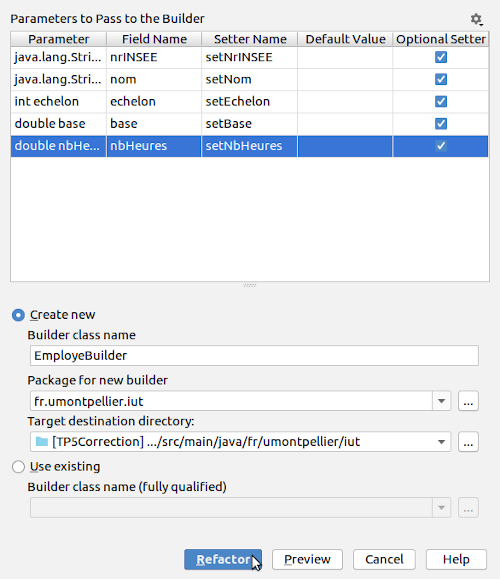
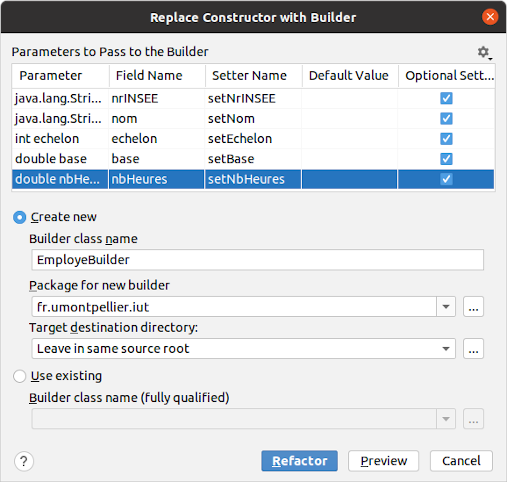
update 2022

diff --git a/README.md b/README.md
@@ -4,11 +4,17 @@
 
 ### IUT Montpellier-Sète – Département Informatique
 
-* **Cours:** [M2103](http://cache.media.enseignementsup-recherche.gouv.fr/file/25/09/7/PPN_INFORMATIQUE_256097.pdf) - support [ici](https://gitlabinfo.iutmontp.univ-montp2.fr/dev-objets/Ressources)
-* **Enseignants:** [Marin Bougeret](mailto:marin.bougeret@umontpellier.fr), [Romain Lebreton](mailto:romain.lebreton@umontpellier.fr), [Sophie Nabitz](mailto:sophie.nabitz@univ-avignon.fr), [Victor Poupet](mailto:victor.poupet@umontpellier.fr), [Petru Valicov](mailto:petru.valicov@umontpellier.fr)
+* [**Support de cours**](https://gitlabinfo.iutmontp.univ-montp2.fr/dev-objets/Ressources)
+* **Enseignants:**
+  [Marin Bougeret](mailto:marin.bougeret@umontpellier.fr),
+  [Gaëlle Hisler](mailto:gaelle.hisler@umontpellier.fr),<!--[Sophie Nabitz](mailto:sophie.nabitz@univ-avignon.fr),-->
+  [Cyrille Nadal](mailto:cyrille.nadal@umontpellier.fr),
+  [Victor Poupet](mailto:victor.poupet@umontpellier.fr),
+  [Gilles Trombettoni](mailto:gilles.trombettoni@umontpellier.fr),
+  [Petru Valicov](mailto:petru.valicov@umontpellier.fr)
 * Le [forum Piazza](https://piazza.com/class/kyo4oooauez252) de ce cours pour poser vos questions
 * [Email](mailto:petru.valicov@umontpellier.fr) pour une question d'ordre privée concernant le cours.
-* Le [sujet du TP](https://pageperso.lis-lab.fr/~petru.valicov/Cours/M2103/TP5.pdf) en format .pdf téléchargeable et imprimable.
+* Le [sujet du TP](https://www.lirmm.fr/~pvalicov/Cours/dev-objets/TP5.pdf) en format .pdf téléchargeable et imprimable.
 
 <!--Avant de démarrer le TP, vérifiez que vous n'avez pas atteint votre quota d'espace de stockage autorisé :
 
@@ -20,26 +26,25 @@
 * Pour éviter des problèmes durant vos TPs d'informatique, vous devriez toujours **garder 300-400 Mo d'espace libre**.
 -->
 
+
 ### Consignes (importantes pour la notation)
 - Vous respecterez toutes les [consignes](https://gitlabinfo.iutmontp.univ-montp2.fr/dev-objets/TP4#consignes) indiquées dans le TP précédent
-- Vous respecterez les conventions de nommage *Java* (vues en [cours](http://pageperso.lis-lab.fr/~petru.valicov/Cours/M2103/BPOO_Generalites_x4.pdf)
-ou disponibles sur le site d'Oracle). Prêtez une attention particulière au respect des noms de classes, attributs et méthodes qui vous seront demandés.
+- Vous respecterez les conventions de nommage *Java* (vues en [cours](https://www.lirmm.fr/~pvalicov/Cours/dev-objets/Generalites_x4.pdf)
+  ou disponibles sur le site d'Oracle). Prêtez une attention particulière au respect des noms de classes, attributs et méthodes qui vous seront demandés.
 - Dans ce TP, un principe important que vous devriez essayer de respecter dans votre code est le principe [DRY](https://fr.wikipedia.org/wiki/Ne_vous_r%C3%A9p%C3%A9tez_pas).
 - Pour chaque question nécessitant une vérification automatique, vous écrirez des tests unitaires, pour valider votre solution.
 - **Vous nommerez les classes telles que demandé dans le sujet et respecterez les signatures des méthodes qui vous sont demandées. Sinon, votre code ne pourra pas être testé...**
 
 
+
 ## TP5
 #### _Thème : Héritage - réutiliser, mais sans en abuser_
 
-Cliquez sur le lien ci-dessous pour faire votre fork privé du TP :
-
-https://classroom.github.com/a/Aa2TX0UU
-
-Date limite de rendu de votre code sur le dépôt GitHub : **Dimanche 21 février à 23h00**
+Date limite de rendu de votre code sur le dépôt GitHub : **Dimanche 27 février à 23h00**
 
 Vous êtes chargés de proposer une application de gestion des employés dans une entreprise.
-L’objectif est de développer votre application de manière incrémentale, en ajoutant les fonctionnalités demandées au fur et à mesure __sans modifier les fonctionnalités écrites précédemment__ (à moins qu'il vous est demandé explicitement de modifier le code). Ce que l'on considère ici comme _modification_
+L’objectif est de développer votre application de manière incrémentale, en ajoutant les fonctionnalités demandées au fur
+et à mesure __sans modifier les fonctionnalités écrites précédemment__. Ce que l'on considère ici comme _modification_
 c'est effacer et/ou réécrire du code précédemment écrit. _Ajouter_ du code sans modifier le code précédent est donc
 une opération valide. On dira ici, que pour chaque modification de votre programme (effacement et réécriture) la
 [dette](https://fr.wikipedia.org/wiki/Dette_technique) de votre logiciel augmente.
@@ -50,99 +55,78 @@ Dans tout ce TP, tous les attributs devraient être `private` (en particulier il
 
 ### Exercice 1
 
-1. Dans un premier temps vous devez modéliser les employés représentés par les données suivantes : numéro de
-   sécurité sociale, nom, échelon (entier naturel). Pour pouvoir calculer le salaire brut et le salaire net d'un employé,
-   deux attributs supplémentaires de type `double` sont nécessaires : `base` et `nbHeures`. Implémentez la classe `Employe`
-   qui vous est donnée et complétez son constructeur (**avec les paramètres dans cet ordre**) :
-    ```java
-       public Employe(String nrINSEE, String nom, int echelon, double base, double nbHeures)
+1. Dans un premier temps, vous devez modéliser les employés représentés par les données suivantes : numéro de sécurité sociale, nom, échelon (entier naturel). Pour pouvoir calculer le salaire brut et le salaire net d'un employé, deux attributs supplémentaires de type `double` sont nécessaires : `base` et `nbHeures`. Implémentez la classe `Employe` qui vous est donnée et complétez son constructeur (**avec les paramètres dans cet ordre**) :
+   ```java
+   public Employe(String nrINSEE, String nom, int echelon, double base, double nbHeures)
     ```
 2. Le constructeur ayant beaucoup de paramètres, il vous est également
-    demandé de proposer un _builder_ pour une construction plus souple (cf.
-    [question 5, Exercice 3 du TP3](https://gitlabinfo.iutmontp.univ-montp2.fr/dev-objets/tp3#exercice-3-bonus)).
-    Vous pouvez générer le builder de manière automatique avec l'outil de refactoring d'IntelliJ IDEA :
-   * clic droit sur le nom du constructeur de votre classe &rightarrow; _Refactor_ &rightarrow;
-   _Replace Constructor with Builder_ :
-     
-    ![](ressources/GenerationBuilder.png)
-   * Dans la fenêtre qui s'affiche vous cocherez tous les paramètres comme indiqué dans le dessin ci-dessous et cliquerez
-    sur le bouton _Refactor_ :   
-   ![](ressources/ParametresBuilder.png)
-     
-   C'est possible de générer le builder dans d'autres IDE, mais c'est moins automatique.
-   
-   **Important :** générer le builder, ne veut pas dire changer le constructeur de la classe `Employe`... **il ne faut pas** changer la signature du constructeur de `Employe` qui vous est donnée
+   demandé de proposer un _builder_ pour une construction plus souple (cf.
+   [question 5, Exercice 3 du TP3](https://gitlabinfo.iutmontp.univ-montp2.fr/dev-objets/tp3#exercice-3-bonus)).
+   Vous pouvez générer le _builder_ de manière automatique avec l'outil de refactoring d'IntelliJ IDEA :
+    * clic droit sur le nom du constructeur de votre classe &rightarrow; _Show Context Actions_ &rightarrow;
+      _Replace Constructor with Builder_ :
+      <img src="ressources/GenerationBuilder.png" width="600" alt="generation-builder"/>
+    * Dans la fenêtre qui s'affiche vous cocherez tous les paramètres comme indiqué dans le dessin ci-dessous et cliquerez
+      sur le bouton _Refactor_ :   
+      <img src="ressources/ParametresBuilder.png" width="500" alt="generation-builder"/>
+    * On peut continuer à refactoriser et rendre le Builder comme une classe interne statique de la classe `Employe` en faisant un glisser/déposer (drag & drop) de `EmployerBuilder` dans `Employe` dans la fenêtre de l'IDE.
 
+      C'est sûrement possible de générer le builder dans d'autres IDE, on vous laisse vous documenter.
 
-3. Le salaire brut de l’employé se calcule de la manière suivante : `base * nbHeures`.
- Le salaire net représentera toujours 80% du salaire brut. Ajoutez le code nécessaire (attributs et méthodes) pour intégrer ces fonctionnalités et proposez des méthodes respectives `getSalaireBrut()` et `getSalaireNet()`.
- 
-4. Redéfinissez la méthode `String toString()` dans la classe `Employe` pour afficher les informations concernant un employé
-(y compris ses salaires brut et net).
- 
-5. Si votre client vous demande de changer (modifier donc) la formule de calcul du salaire brut et de la fixer à `base * nbHeures * 1.05`,
-combien de changement devriez-vous effectuer pour que votre programme continue de fonctionner correctement ? Est-ce que vous pouvez faire mieux ?
-   
-    __Remarque__ : comme convenu précédemment, dans ce qui suit, le salaire brut d'un employé restera toujours le même, à savoir `base * nbHeures`
-   
-6. Vérifiez votre solution dans le programme principal (la classe `GestionEmployes`). Vous y instancierez plusieurs employés (avec le _builder_) et afficherez les informations les concernant. N'oubliez pas les tests unitaires pour les questions précédentes !
+   **Important :** générer le builder, ne veut pas dire changer le constructeur de la classe `Employe`... **il ne faut pas** changer la signature du constructeur de `Employe` qui vous est donnée.
+
+3. Le salaire brut de l’employé se calcule de la manière suivante : `base * nbHeures`. Le salaire net représentera toujours 80% du salaire brut. Ajoutez le code nécessaire (attributs et méthodes) pour intégrer ces fonctionnalités
+   et proposez des méthodes respectives `getSalaireBrut()` et `getSalaireNet()`.
+
+4. Redéfinissez la méthode `String toString()` dans la classe `Employe` pour afficher les informations concernant un employé (y compris ses salaires brut et net).
+
+5. Si jamais votre client vous demande de changer (modifier donc) la formule de calcul du salaire brut et de la fixer à `base * nbHeures * 1.05`, combien de changements devriez-vous effectuer au minimum pour que votre programme continue de fonctionner correctement ?
+
+   __Remarque__ : comme convenu précédemment, dans ce qui suit, le salaire brut d'un employé restera toujours le même, à savoir `base * nbHeures`, donc aucun changement dans votre code pour la question 5.
+
+6. Vérifiez votre solution dans le programme principal (la classe `GestionEmployes`). Vous y instancierez plusieurs
+   employés (avec le _builder_) et afficherez les informations les concernant. N'oubliez pas les tests unitaires pour les exercices précédents !
 
 
 ### Exercice 2
 
-1. Avec le développement de l'entreprise, une séparation des traitements pour les différents types
-d'employés devient nécessaire. Il faut spécifier les cas des _Commerciaux_, _Fabricants_, et les autres employés qu’on appellera _Techniciens_.
-   * La classe `Commercial` a comme attributs `chiffreAffaires` et `tauxCommission`  (tous les deux de type `double`).
-   * La classe `Fabricant` a comme attributs `nbUnitesProduites` et `tauxCommissionUnite` (type `int`et `double` respectivement).
-   * La classe `Technicien` n'a pour l'instant aucun nouveau attribut, ni aucune nouvelle méthode.
-   
-   Implémentez les classes correspondantes en les faisant hériter de la classe `Employe`. Voici la signature des constructeurs de ces classes :
-    ```java
-       public Commercial(String nrINSEE, String nom, int echelon, double base, double nbHeures, double chiffreAffaires, double tauxCommission)
-       public Fabricant(String nrINSEE, String nom, int echelon, double base, double nbHeures, int nbUnitesProduites, double tauxCommissionUnite)
-       public Technicien(String nrINSEE, String nom, int echelon, double base, double nbHeures)
-    ```
-        
-    Ne générez pas des _builders_ pour ces classes pour le moment.
+1. Avec le développement de l'entreprise, une séparation des traitements pour les différents types d'employés devient nécessaire. Il faut spécifier les cas des _Commerciaux_, _Fabricants_, et les autres employés qu’on appellera
+   _Techniciens_.
+    * La classe `Commercial` a comme attributs `chiffreAffaires` et `tauxCommission`  (tous les deux de type `double`).
+    * La classe `Fabricant` a comme attributs `nbUnitesProduites` et `tauxCommissionUnite` (type `int`et `double` respectivement).
+    * La classe `Technicien` n'a pour l'instant aucun nouveau attribut, ni aucune nouvelle méthode.
 
-2. Un commercial peut négocier des transactions (avec la méthode `void negocierTransaction()`), un fabricant fabrique des
-produits (méthode `void fabriquerProduit()`), un technicien effectue les autres tâches dans l’entreprise
-(méthode `void effectuerTacheTechnique()`). Toutes ces méthodes sont de type `void` et se contentent
-d'afficher un message approprié pour illustrer leur bon fonctionnement. Par exemple, la méthode `void negocierTransaction()`
-devra afficher ”_Je négocie une transaction_”.
+   Implémentez les classes correspondantes en les faisant hériter de la classe `Employe`.
 
-3. Vérifiez votre programme dans la classe principale, en instanciant un objet pour chaque nouveau type d'employé et en
-appelant sa fonction spécifique.
+   Voici la signature des constructeurs de ces classes :
+   ```java
+   public Commercial(String nrINSEE, String nom, int echelon, double base, double nbHeures, double chiffreAffaires, double tauxCommission)
+   public Fabricant(String nrINSEE, String nom, int echelon, double base, double nbHeures, int nbUnitesProduites, double tauxCommissionUnite)
+   public Technicien(String nrINSEE, String nom, int echelon, double base, double nbHeures)
+   ```
+
+   Ne générez pas des _builders_ pour ces classes pour le moment.
+
+2. Un commercial peut négocier des transactions avec la méthode `negocierTransaction(double sommeGagnée)`, elle incrémentera son chiffre d'affaires. Un fabricant fabrique des produits avec la méthode `void fabriquerProduits(int nbProduits)` ce qui incrémente son nombre d'unités produites. Un technicien effectue les autres tâches dans l’entreprise
+   (méthode `void effectuerTacheTechnique()`) à travers un simple affichage d'un message approprié à la console. Toutes ces méthodes sont de type `void` et vous pouvez faire en sorte d'afficher un message approprié pour illustrer leur bon fonctionnement. Par exemple, la méthode `void negocierTransaction(double sommeGagnée)` pourra en plus afficher ”_Je négocie une transaction_”.
+
+3. Vérifiez votre programme dans la classe principale, en instanciant un objet pour chaque nouveau type d'employé et en appelant sa fonction spécifique.
 
 4. On souhaite varier le calcul des salaires bruts des différents types d’employés :
-    * Le salaire brut d’un technicien est composé de son salaire brut en tant qu’employé + une majoration
-    en fonction de son échelon. Dans notre exemple, le résultat de ce calcul devrait correspondre à 
-    `base ∗ nbHeures + echelon ∗ 100`.
-    * Le salaire brut d’un commercial dépend du chiffre d’affaires qu’il réalise. Ainsi, le salaire brut se calcule
-    suivant la formule `base + chiffreAffaires ∗ tauxCommission`.
-    * Le salaire brut d’un fabricant est calculé de la même manière que le salaire brut d’un employé en ajoutant une
-    rémunération supplémentaire en fonction du rendement. Dans notre exemple, le résultat de ce calcul devrait
-    correspondre à `base ∗ nbHeures + nbUnitesProduites ∗ tauxCommissionUnite`.
-    * **Important :** la modalité de calcul du salaire net demeure inchangée pour tous les employés (à savoir 80% du
-    salaire brut).
-    
-   _Redéfinissez_ la méthode `getSalaireBrut()` dans chaque classe d'employé spécifique pour prendre en compte
-   ces nouvelles formules. Vous ajouterez le code qui vous paraît nécessaire à la classe `Employe` mais sans modifier
-   le code précédemment écrit.
+    * Le salaire brut d’un technicien est composé de son salaire brut en tant qu’employé + une majoration en fonction de son échelon et du nombre de tâches effectuées. Plus concrètement, le résultat du retour de la fonction de calcul du salaire brut devra être égal à `base ∗ nbHeures + echelon ∗ 100`.
+    * Le salaire brut d’un commercial dépend du chiffre d’affaires qu’il réalise. Ainsi, le salaire brut se calcule suivant la formule `base + chiffreAffaires ∗ tauxCommission`.
+    * Le salaire brut d’un fabricant est calculé de la même manière que le salaire brut d’un employé en ajoutant une rémunération supplémentaire en fonction du rendement. Dans notre exemple, le résultat de ce calcul devrait correspondre à `base ∗ nbHeures + nbUnitesProduites ∗ tauxCommissionUnite`.
+    * **Important :** la modalité de calcul du salaire net demeure inchangée pour tous les employés (à savoir 80% du salaire brut).
 
-5. Déclarez un objet de type `Employe` et instanciez-le en tant que `Fabricant`. Observez le résultat de l'appel des méthodes
-`getSalaireBrut()` et `getSalaireNet()`. Est-ce que la méthode `fabriquerProduit()` est accessible ?
-Expliquez en comparant avec le scénario où l'objet serait déclaré en tant que `Fabricant`. 
+   _Redéfinissez_ la méthode `getSalaireBrut()` dans chaque classe d'employé spécifique pour prendre en compte ces nouvelles formules. Vous ajouterez le code qui vous paraît nécessaire à la classe `Employe` mais sans modifier le code précédemment écrit.
 
-6. Si le patron devient plus généreux et décide d’ajouter 100€ au salaire brut de tous ses employés, combien de
-modifications devez-vous apporter à votre code pour que cela fonctionne ?
+5. Déclarez un objet de type `Employe` et instanciez-le en tant que `Fabricant`. Observez le résultat de l'appel des méthodes `getSalaireBrut()` et `getSalaireNet()`. Est-ce que la méthode `fabriquerProduits(int nbProduits)` est accessible ? Expliquez en comparant avec le scénario où l'objet serait déclaré en tant que `Fabricant`.
+
+6. Si jamais le patron devient plus généreux et décide d’ajouter une somme fixe de 100€ au salaire brut de tous ses employés, combien de modifications devez-vous apporter à votre code pour que cela fonctionne ? Attention, c'était une blague, le patron ne sera pas généreux, donc ne faites pas cette modification !
 
 ### Exercice 3
 
-1. Maintenant, votre client se rend compte qu’un `Commercial` ne peut pas être un simple commercial (donc ne peut pas être
-   instancié en tant que tel), mais doit être distingué en tant que `Vendeur` ou `Representant`. Un vendeur peut vendre des
-   produits (méthode `void vendreProduit()`) et un représentant peut représenter l'entreprise auprès des différents clients
-   (méthode `void representerEntreprise()`). Ajoutez les deux classes correspondantes en faisant un héritage de `Commercial`.
+1. Maintenant, votre client se rend compte qu’un `Commercial` ne peut pas être un simple commercial (donc ne peut pas être instancié en tant que tel), mais doit être distingué en tant que `Vendeur` ou `Representant`. Un vendeur peut vendre des produits (méthode `void vendreProduit()`) et un représentant peut représenter l'entreprise auprès des différents clients (méthode `void representerEntreprise()`). Ajoutez les deux classes correspondantes en faisant un héritage de `Commercial`.
 
    Voici la signature des constructeurs de ces classes :
     ```java
@@ -152,20 +136,21 @@ modifications devez-vous apporter à votre code pour que cela fonctionne ?
 
    Pour rendre la classe `Commercial` non-instanciable il faut modifier sa déclaration en ajoutant le mot-clé `abstract` : `public abstract class`. Observez les changements à faire à l'utilisation des objets `Commercial`.
 
-2. Implémentez les _builders_ pour les classes `Technicien`, `Fabricant`, `Representant` et `Vendeur`.
+2. La méthode `void representerEntreprise()` de la classe `Representant` incrémente le nombre de représentations effectuées par ce salarié (un attribut de cette classe donc).
+3. Implémentez les _builders_ pour les classes `Technicien`, `Fabricant`, `Representant` et `Vendeur`.
 
-    **Remarque :** observez la duplication de code entre les différentes classes _builders_ (non-respect du principe [DRY](https://fr.wikipedia.org/wiki/Ne_vous_r%C3%A9p%C3%A9tez_pas)). Pour le moment, pour des raisons de facilité nous allons tolérer ce défaut et laisser les classes _builders_ telles quelles. Dans quelques semaines, après avoir suffisamment avancé dans le cours, nous y reviendront pour améliorer. Pour les curieux : https://stackoverflow.com/questions/21086417/builder-pattern-and-inheritance Une explication approfondie et une solution sont également données dans _Effective Java_ de J. Blosch, (3ème édition).
+   **Remarque :** observez la duplication de code entre les différentes classes _builders_ (non-respect du principe [DRY](https://fr.wikipedia.org/wiki/Ne_vous_r%C3%A9p%C3%A9tez_pas)). Pour le moment, pour des raisons de facilité nous allons tolérer ce défaut et laisser les classes _builders_ telles quelles. Dans quelques semaines, après avoir suffisamment avancé dans le cours, nous y reviendront pour améliorer. Pour les curieux : https://stackoverflow.com/questions/21086417/builder-pattern-and-inheritance Une explication approfondie et une solution sont également données dans _Effective Java_ de J. Blosch, (3ème édition).
 
-3. Pour terminer, faites en sorte que la méthode de calcul du salaire brut d'un vendeur soit _toujours_ la même que la méthode
-de calcul du salaire brut d'un commercial, alors que la formule de calcul du salaire brut des représentants soit _toujours_ la même
-que celle utilisée pour le salaire brut des _techniciens_. Ajoutez cette fonctionnalité dans votre application.
+4. Pour terminer, faites en sorte que la méthode de calcul du salaire brut d'un vendeur soit _toujours_ la même que la méthode de calcul du salaire brut d'un commercial, alors que la formule de calcul du salaire brut des représentants soit _toujours_ la même que celle utilisée pour le salaire brut des _techniciens_ + le nombre de représentations * 123. Ajoutez cette fonctionnalité dans votre application.
 
    **Attention** à ne pas dupliquer du code (principe [DRY](https://fr.wikipedia.org/wiki/Ne_vous_r%C3%A9p%C3%A9tez_pas))
    et à ne pas modifier le code précédemment écrit ! Sinon la [dette](https://fr.wikipedia.org/wiki/Dette_technique)
    de votre logiciel va augmenter. :smirk:
 
-4. Quels sont les avantages et inconvénients de votre approche ?
+5. Quels sont les avantages et inconvénients de votre solution à la question 4 ?
 
-5. **Bonus :** dessinez le diagramme de classes afin de mieux comprendre votre solution. Vous déposerez le diagramme sous forme d'image (.png ou .jpg) à la racine de votre dépôt Git.
+6. Dessinez le diagramme de classes afin de mieux comprendre votre solution. Vous déposerez le diagramme sous forme d'image (.png ou .jpg) à la racine de votre dépôt Git.
 
-    **Note** : les _builders_ ne doivent pas faire partie de votre diagramme de classes
+   **Note** : les _builders_ ne doivent pas faire partie de votre diagramme de classes.
+
+7. **Bonus :** Si vous êtes vraiment en avance, essayez de proposer une solution qui évite la duplication de code entre les différentes classes de builder. Vous travaillerez dans paquetage différent pour cela.
